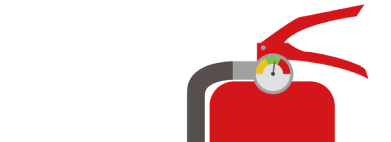
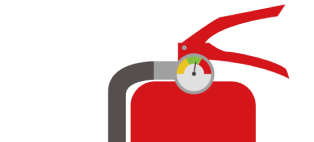
design: 소화전 이미지 asset 추가 및 배치

Changed region(s): [[0.3439, 0.0282, 0.9459, 1.0]]

diff --git a/src/pages/Main/index.tsx b/src/pages/Main/index.tsx
@@ -2,7 +2,7 @@ import React from 'react';
 import { styled } from 'styled-components';
 import Header from '@/common/Header';
 import BackBoardDecoInMainPage from '@/assets/BackBoardDecoInMainPage.png';
-import Chalk from '@/assets/Chalk.png';
+import FireExtinguisher from '@/assets/FireExtinguisher.png';
 
 const Main = () => {
   return (
@@ -17,6 +17,7 @@ const Main = () => {
           <Buttons>입장하기</Buttons>
         </div>
       </BackBoard>
+      <img className='FireExtinguisherImg' src={FireExtinguisher} />
     </Mains>
   )
 };
@@ -32,6 +33,12 @@ const Mains = styled.div`
   display: flex;
   flex-direction: column;
   align-items: center;
+  
+  .FireExtinguisherImg {
+    margin-left: 65vw;
+    width: 35rem;
+    height: 13rem;
+  }
 `;
 
 
@@ -50,7 +57,6 @@ const BackBoard = styled.div`
   border-radius: 2rem;
   color: white;
   font-size: 32rem;
-  cursor: url(${Chalk}) 2 2, auto;
   .itemInBackBoard {
     display: flex;
   }
